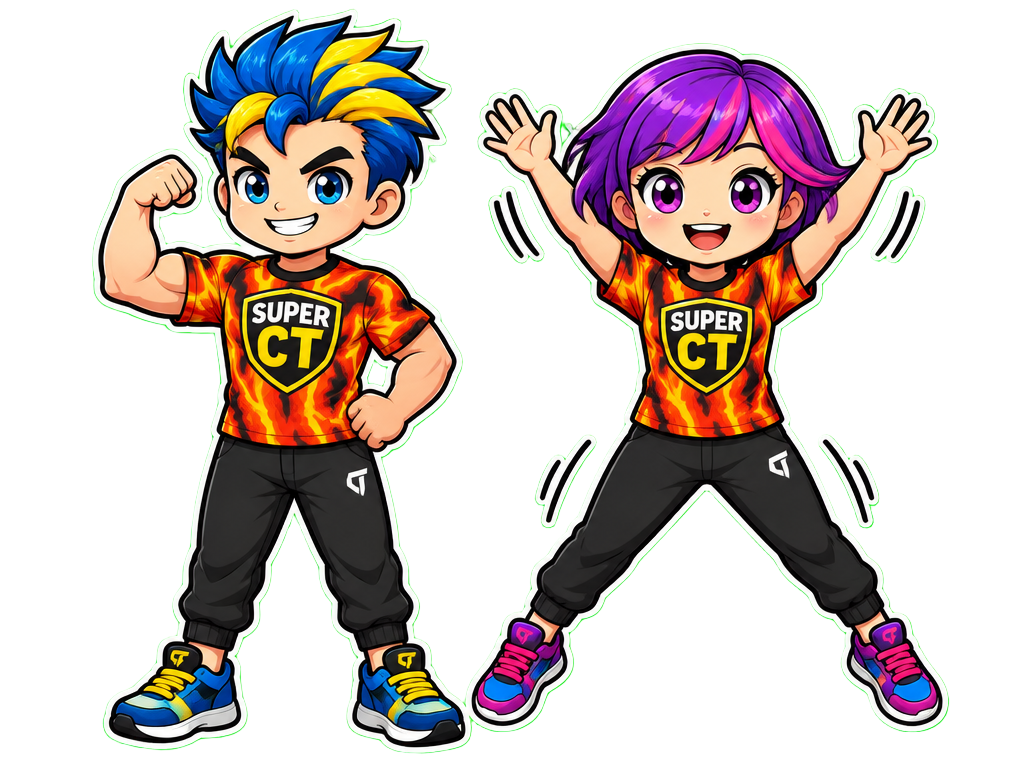
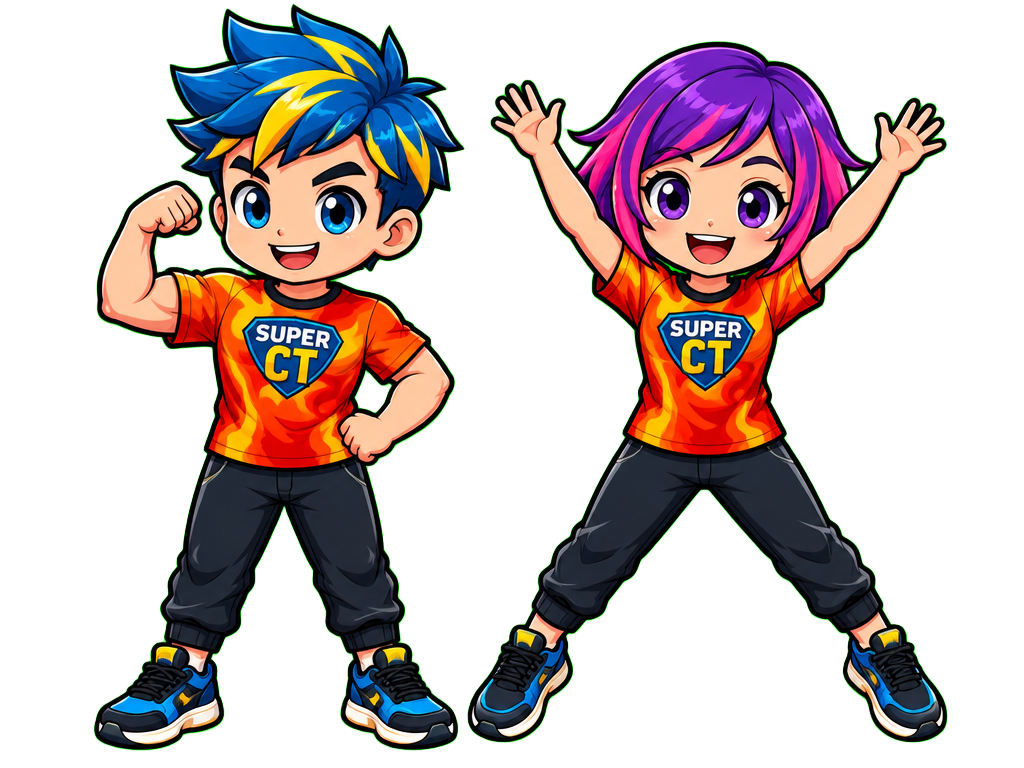
Área Super: arte refeita com personagens oficiais no uniforme, maiores no topo da janela

diff --git a/src/components/AvaliacaoSuper.tsx b/src/components/AvaliacaoSuper.tsx
@@ -87,7 +87,7 @@ function Janela({ aberto, onOpenChange, titulo, icone, children }: { aberto: boo
         <div className="flex items-center justify-between gap-2 border-b border-border px-4 py-3">
           <DialogTitle className="flex min-w-0 items-center gap-2 font-display text-base">{icone} <span className="truncate">{titulo}</span></DialogTitle>
           <span className="flex shrink-0 items-center gap-1">
-            <img src={mascotesExercicio} alt="Personagens do Super CT com o uniforme da academia" loading="lazy" width={1024} height={768} className="h-12 w-auto object-contain" />
+            <img src={mascotesExercicio} alt="Personagens do Super CT com o uniforme da academia" loading="lazy" width={1024} height={768} className="h-20 w-auto object-contain" />
             <DialogClose className="rounded-md p-1 hover:bg-muted" aria-label="Fechar"><X className="size-5" /></DialogClose>
           </span>
         </div>
